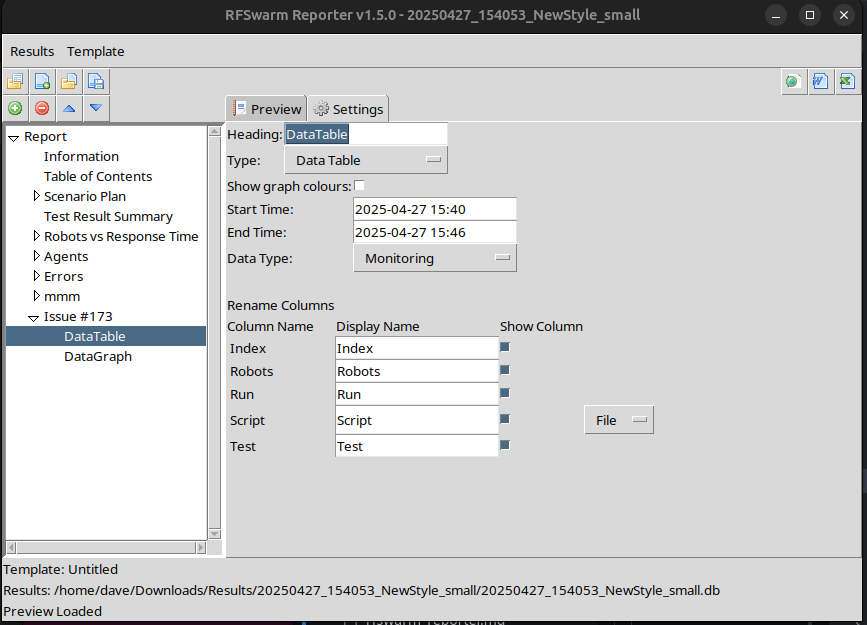
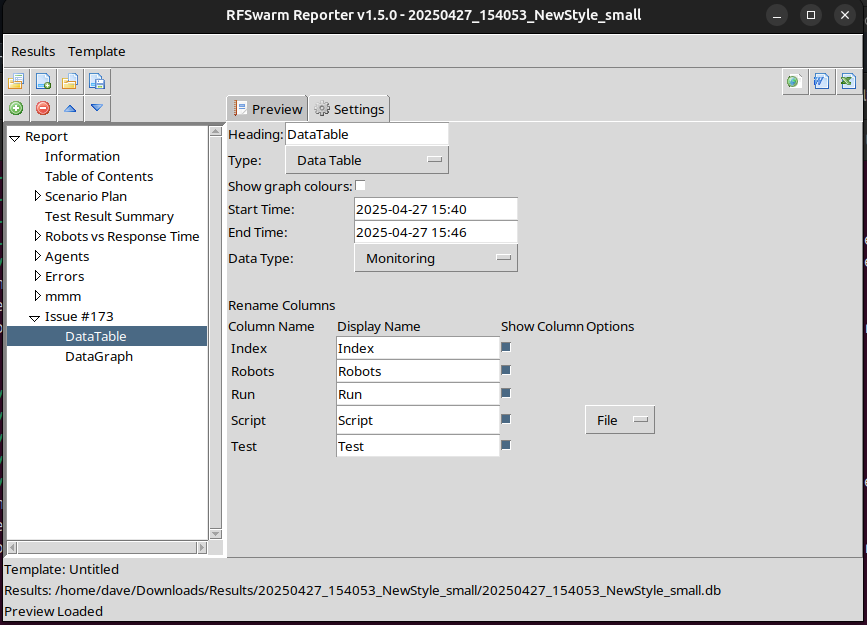
Documentation updates Issue #173

diff --git a/rfswarm_reporter/rfswarm_reporter.py b/rfswarm_reporter/rfswarm_reporter.py
@@ -9422,7 +9422,7 @@ class ReporterGUI(tk.Frame):
 			self.contentdata[id]["lblshowcol"] = ttk.Label(self.contentdata[id]["Frames"]["renamecols"], text="Show Column")
 			self.contentdata[id]["lblshowcol"].grid(column=2, row=rownum, sticky="nsew")
 
-			if datatype == "Plan":
+			if datatype in ["Plan", "Monitoring"]:
 				self.contentdata[id]["lblcolopt"] = ttk.Label(self.contentdata[id]["Frames"]["renamecols"], text="Options")
 				self.contentdata[id]["lblcolopt"].grid(column=3, row=rownum, sticky="nsew")
 

diff --git a/Doc/rfswarm_manager.md b/Doc/rfswarm_manager.md
@@ -261,7 +261,10 @@ Here is an example of configuring the Filter Rules and using the Robot options:
 ### Monitoring
 This section allows you to add monitoring tests/tasks separately from the tests used for the Application Under Test (AUT), to make a clear distinction between tests that are for validating the performance of the AUT and tests/tasks used for monitoring
 
-- All monitoring groups will have 1 robot each, a delay and ramp-up of 0, and run's time is calculated based on `Monitoring time before test + total plan execution time + Monitoring time after test`
+- All monitoring groups will have:
+  - 1 robot each
+  - a delay and ramp-up of 0 seconds
+  - and for run, the time is calculated based on `Monitoring time before test + total plan execution time + Monitoring time after test`
 - All monitoring groups will start immediately and run until the scenario end
 
 #### Monitoring time before test

diff --git a/Doc/FAQ.md b/Doc/FAQ.md
@@ -43,7 +43,7 @@ There may be a firewall blocking the communication, Windows 10, Recent Mac OSX a
 |rfswarm|JMeter|Loadrunner|NeoLoad|
 |-------|------|----------|-------|
 |Manager|JMeter client (JMeter GUI)|Controller|Runtime Tab|
-|Agents|JMeter servers (JMeterEngine)|Agent process (sometimes called Load Generators or Injectors)|Load Generators|
+|Agents|JMeter servers (JMeterEngine)|Agent process <br>(sometimes called Load Generators or Injectors)|Load Generators|
 |Reporter||Analysis|Results Tab|
 |Scenario|Test Plan|Scenario|Runtime Tab > Scenarios Tab|
 |Test Case|Thread Group|Script|Design Tab > User Paths|
